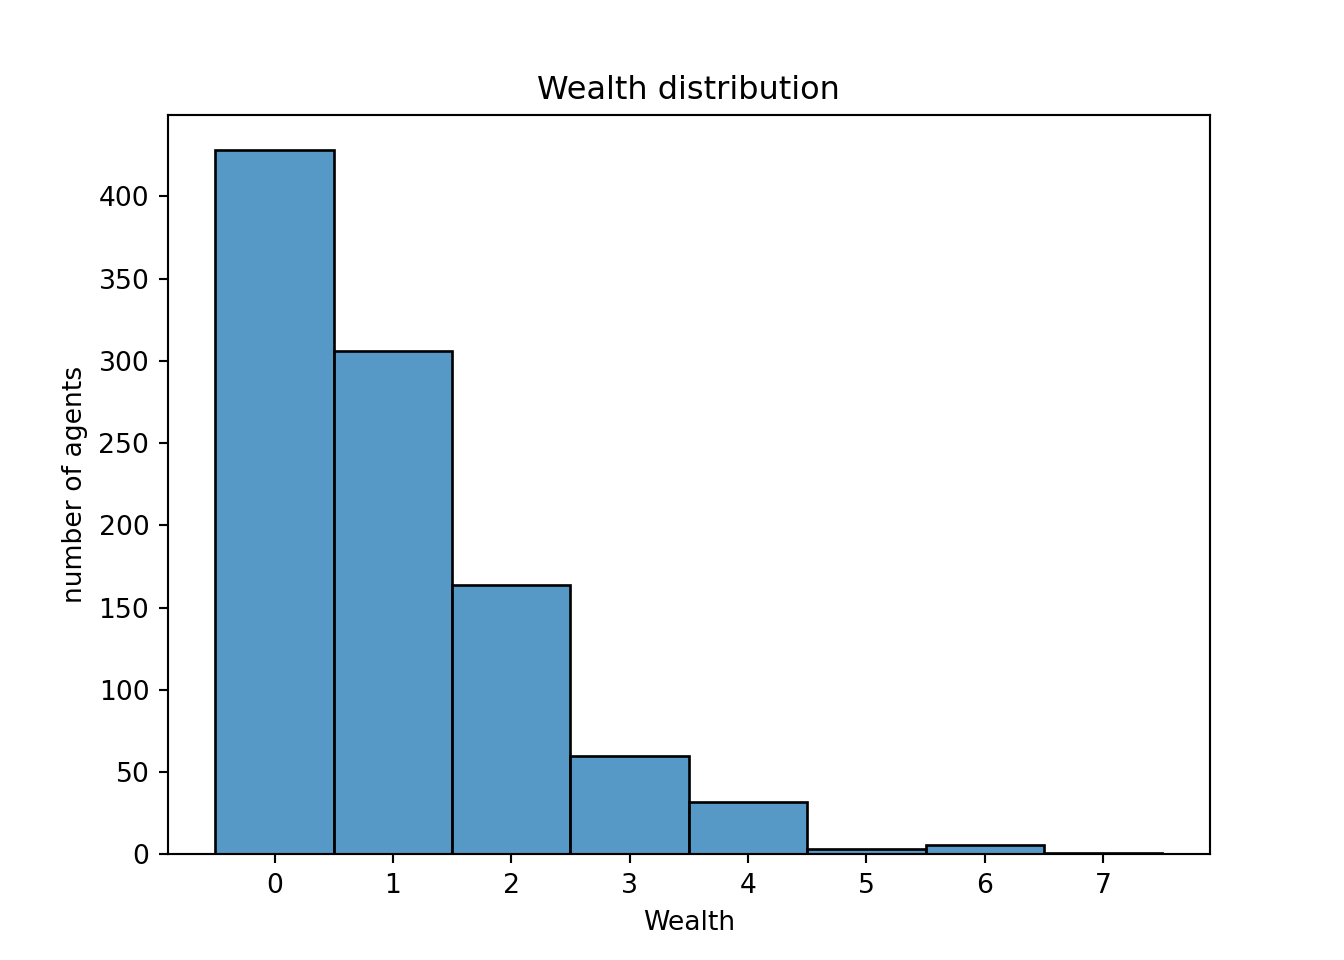
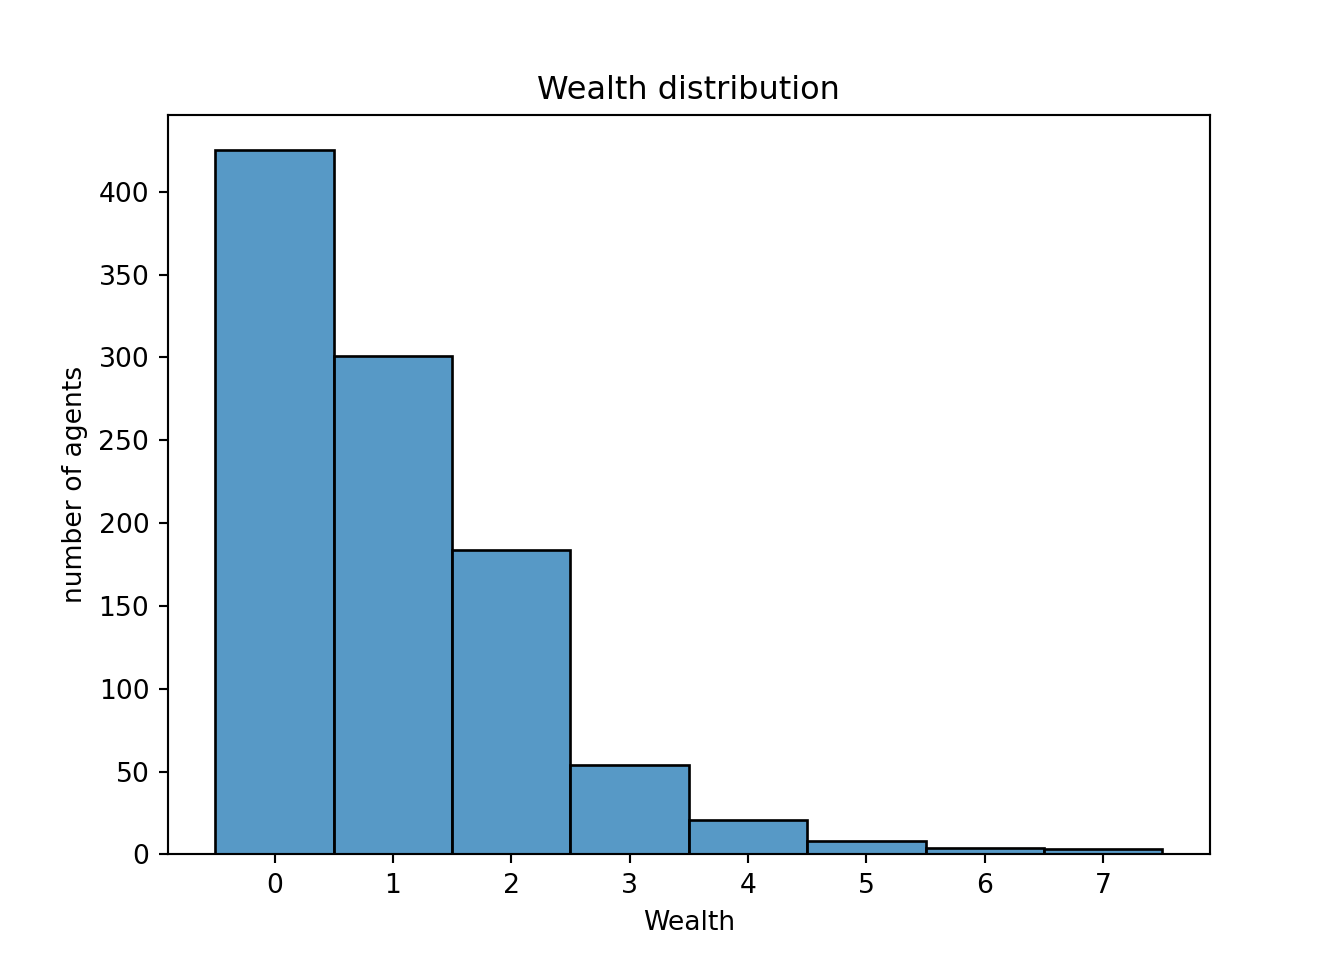
update

diff --git a/docs/index.html b/docs/index.html
@@ -154,7 +154,10 @@ pre > code.sourceCode > span > a:first-child::before { text-decoration: underlin
   <li><a href="#导入依赖项" id="toc-导入依赖项" class="nav-link" data-scroll-target="#导入依赖项"><span class="header-section-number">3.1</span> 导入依赖项</a></li>
   <li><a href="#基础模型" id="toc-基础模型" class="nav-link" data-scroll-target="#基础模型"><span class="header-section-number">3.2</span> 基础模型</a></li>
   <li><a href="#空间概念" id="toc-空间概念" class="nav-link" data-scroll-target="#空间概念"><span class="header-section-number">3.3</span> 空间概念</a></li>
-  <li><a href="#代码实现" id="toc-代码实现" class="nav-link" data-scroll-target="#代码实现"><span class="header-section-number">3.4</span> 代码实现</a></li>
+  <li><a href="#代码实现" id="toc-代码实现" class="nav-link" data-scroll-target="#代码实现"><span class="header-section-number">3.4</span> 代码实现</a>
+  <ul>
+  <li><a href="#创建-cellagent" id="toc-创建-cellagent" class="nav-link" data-scroll-target="#创建-cellagent"><span class="header-section-number">3.4.1</span> 创建 CellAgent</a></li>
+  </ul></li>
   </ul></li>
   </ul>
 </nav>
@@ -319,16 +322,16 @@ pre > code.sourceCode > span > a:first-child::before { text-decoration: underlin
 <span id="cb7-5"><a href="#cb7-5" aria-hidden="true" tabindex="-1"></a><span class="co">#运行模型的 step 方法，激活所有 Agent</span></span>
 <span id="cb7-6"><a href="#cb7-6" aria-hidden="true" tabindex="-1"></a>starter_model.step()</span></code><button title="Copy to Clipboard" class="code-copy-button"><i class="bi"></i></button></pre></div>
 <div class="cell-output cell-output-stdout">
-<pre><code>Hi, I am an agent, you can call me 10.
-Hi, I am an agent, you can call me 4.
-Hi, I am an agent, you can call me 9.
-Hi, I am an agent, you can call me 5.
-Hi, I am an agent, you can call me 2.
-Hi, I am an agent, you can call me 8.
-Hi, I am an agent, you can call me 3.
-Hi, I am an agent, you can call me 7.
+<pre><code>Hi, I am an agent, you can call me 8.
 Hi, I am an agent, you can call me 1.
-Hi, I am an agent, you can call me 6.</code></pre>
+Hi, I am an agent, you can call me 10.
+Hi, I am an agent, you can call me 2.
+Hi, I am an agent, you can call me 4.
+Hi, I am an agent, you can call me 6.
+Hi, I am an agent, you can call me 3.
+Hi, I am an agent, you can call me 9.
+Hi, I am an agent, you can call me 7.
+Hi, I am an agent, you can call me 5.</code></pre>
 </div>
 </div>
 <p>如果在创建对象时传入了 <code>seed</code> 参数，则每次运行模型时 <code>Agent</code> 的顺序会保持一致。</p>
@@ -383,16 +386,16 @@ Hi, I am an agent, you can call me 8.</code></pre>
 <span id="cb11-28"><a href="#cb11-28" aria-hidden="true" tabindex="-1"></a>starter_model <span class="op">=</span> MoneyModel(<span class="dv">10</span>)</span>
 <span id="cb11-29"><a href="#cb11-29" aria-hidden="true" tabindex="-1"></a>starter_model.step()</span></code><button title="Copy to Clipboard" class="code-copy-button"><i class="bi"></i></button></pre></div>
 <div class="cell-output cell-output-stdout">
-<pre><code>Hi, I am an agent 5,and I have 1 dollars.
-Hi, I am an agent 8,and I have 1 dollars.
-Hi, I am an agent 3,and I have 1 dollars.
-Hi, I am an agent 6,and I have 1 dollars.
-Hi, I am an agent 9,and I have 1 dollars.
-Hi, I am an agent 4,and I have 1 dollars.
+<pre><code>Hi, I am an agent 7,and I have 1 dollars.
+Hi, I am an agent 2,and I have 1 dollars.
 Hi, I am an agent 10,and I have 1 dollars.
 Hi, I am an agent 1,and I have 1 dollars.
-Hi, I am an agent 2,and I have 1 dollars.
-Hi, I am an agent 7,and I have 1 dollars.</code></pre>
+Hi, I am an agent 4,and I have 1 dollars.
+Hi, I am an agent 5,and I have 1 dollars.
+Hi, I am an agent 8,and I have 1 dollars.
+Hi, I am an agent 6,and I have 1 dollars.
+Hi, I am an agent 9,and I have 1 dollars.
+Hi, I am an agent 3,and I have 1 dollars.</code></pre>
 </div>
 </div>
 </section>
@@ -539,11 +542,11 @@ Hi, I am an agent 7,and I have 1 dollars.</code></pre>
 <pre><code># A tibble: 6 × 1
   wealth
    &lt;int&gt;
-1      1
-2      3
-3      0
+1      0
+2      1
+3      2
 4      0
-5      0
+5      2
 6      1</code></pre>
 </div>
 <div class="sourceCode cell-code" id="cb22"><pre class="sourceCode r code-with-copy"><code class="sourceCode r"><span id="cb22-1"><a href="#cb22-1" aria-hidden="true" tabindex="-1"></a><span class="fu">ggplot</span>(all_wealth_r, <span class="fu">aes</span>(<span class="at">x =</span> wealth)) <span class="sc">+</span></span>
@@ -672,13 +675,67 @@ Hi, I am an agent 7,and I have 1 dollars.</code></pre>
 </section>
 <section id="代码实现" class="level2" data-number="3.4">
 <h2 data-number="3.4" class="anchored" data-anchor-id="代码实现"><span class="header-section-number">3.4</span> 代码实现</h2>
+<section id="创建-cellagent" class="level3" data-number="3.4.1">
+<h3 data-number="3.4.1" class="anchored" data-anchor-id="创建-cellagent"><span class="header-section-number">3.4.1</span> 创建 CellAgent</h3>
 <p>为了使模型具有离散空间功能，我们将 <code>MoneyAgent</code> 实例化为 <code>CellAgent</code>。</p>
-<p><code>CellAgent</code> 是 <code>Agent</code> 的一个子类，专门用于在</p>
+<p><code>CellAgent</code> 是 <code>Agent</code> 的一个子类，专门用于在离散空间 <code>discrete space</code> 模块中交互和移动。</p>
 <div class="cell language-marker" data-display-language="true">
-
+<div class="sourceCode cell-code" id="cb27"><pre class="sourceCode python code-with-copy"><code class="sourceCode python"><span id="cb27-1"><a href="#cb27-1" aria-hidden="true" tabindex="-1"></a><span class="co">#下面这行import相当于只从 mesa.discrete_space 中导入</span></span>
+<span id="cb27-2"><a href="#cb27-2" aria-hidden="true" tabindex="-1"></a><span class="co">#CellAgent 和 OrthogonalMooreGrid 这两个类，如果此处导入</span></span>
+<span id="cb27-3"><a href="#cb27-3" aria-hidden="true" tabindex="-1"></a><span class="co">#那么下面使用时不需要写明 mesa.discrete_space.CellAgent</span></span>
+<span id="cb27-4"><a href="#cb27-4" aria-hidden="true" tabindex="-1"></a><span class="co">#而可以直接使用CellAgent，类似R中 dplyr::select 和 library(dplyr)</span></span>
+<span id="cb27-5"><a href="#cb27-5" aria-hidden="true" tabindex="-1"></a><span class="co">#from mesa.discrete_space import CellAgent, OrthogonalMooreGrid</span></span>
+<span id="cb27-6"><a href="#cb27-6" aria-hidden="true" tabindex="-1"></a></span>
+<span id="cb27-7"><a href="#cb27-7" aria-hidden="true" tabindex="-1"></a><span class="co">#使用父类 CellAgent 来创建一个新的 Agent 类 MoneyAgent</span></span>
+<span id="cb27-8"><a href="#cb27-8" aria-hidden="true" tabindex="-1"></a><span class="kw">class</span> MoneyAgent(mesa.discrete_space.CellAgent):</span>
+<span id="cb27-9"><a href="#cb27-9" aria-hidden="true" tabindex="-1"></a>    <span class="co">"""An agent with fixed initial wealth."""</span></span>
+<span id="cb27-10"><a href="#cb27-10" aria-hidden="true" tabindex="-1"></a></span>
+<span id="cb27-11"><a href="#cb27-11" aria-hidden="true" tabindex="-1"></a>    <span class="kw">def</span> <span class="fu">__init__</span>(<span class="va">self</span>, model, cell):</span>
+<span id="cb27-12"><a href="#cb27-12" aria-hidden="true" tabindex="-1"></a>        <span class="bu">super</span>().<span class="fu">__init__</span>(model)</span>
+<span id="cb27-13"><a href="#cb27-13" aria-hidden="true" tabindex="-1"></a>        <span class="va">self</span>.cell <span class="op">=</span> cell  <span class="co"># 将 Agent初始化在位置 (x,y)</span></span>
+<span id="cb27-14"><a href="#cb27-14" aria-hidden="true" tabindex="-1"></a>        <span class="va">self</span>.wealth <span class="op">=</span> <span class="dv">1</span></span>
+<span id="cb27-15"><a href="#cb27-15" aria-hidden="true" tabindex="-1"></a></span>
+<span id="cb27-16"><a href="#cb27-16" aria-hidden="true" tabindex="-1"></a>    <span class="co"># Move Function</span></span>
+<span id="cb27-17"><a href="#cb27-17" aria-hidden="true" tabindex="-1"></a>    <span class="kw">def</span> move(<span class="va">self</span>):</span>
+<span id="cb27-18"><a href="#cb27-18" aria-hidden="true" tabindex="-1"></a>        <span class="va">self</span>.cell <span class="op">=</span> <span class="va">self</span>.cell.neighborhood.select_random_cell()</span>
+<span id="cb27-19"><a href="#cb27-19" aria-hidden="true" tabindex="-1"></a></span>
+<span id="cb27-20"><a href="#cb27-20" aria-hidden="true" tabindex="-1"></a>    <span class="kw">def</span> give_money(<span class="va">self</span>):</span>
+<span id="cb27-21"><a href="#cb27-21" aria-hidden="true" tabindex="-1"></a>        cellmates <span class="op">=</span> [</span>
+<span id="cb27-22"><a href="#cb27-22" aria-hidden="true" tabindex="-1"></a>            a <span class="cf">for</span> a <span class="kw">in</span> <span class="va">self</span>.cell.agents <span class="cf">if</span> a <span class="kw">is</span> <span class="kw">not</span> <span class="va">self</span></span>
+<span id="cb27-23"><a href="#cb27-23" aria-hidden="true" tabindex="-1"></a>        ]  <span class="co"># Get all agents in cell</span></span>
+<span id="cb27-24"><a href="#cb27-24" aria-hidden="true" tabindex="-1"></a></span>
+<span id="cb27-25"><a href="#cb27-25" aria-hidden="true" tabindex="-1"></a>        <span class="cf">if</span> <span class="va">self</span>.wealth <span class="op">&gt;</span> <span class="dv">0</span> <span class="kw">and</span> cellmates:</span>
+<span id="cb27-26"><a href="#cb27-26" aria-hidden="true" tabindex="-1"></a>            other_agent <span class="op">=</span> <span class="va">self</span>.random.choice(cellmates)</span>
+<span id="cb27-27"><a href="#cb27-27" aria-hidden="true" tabindex="-1"></a>            other_agent.wealth <span class="op">+=</span> <span class="dv">1</span></span>
+<span id="cb27-28"><a href="#cb27-28" aria-hidden="true" tabindex="-1"></a>            <span class="va">self</span>.wealth <span class="op">-=</span> <span class="dv">1</span></span></code><button title="Copy to Clipboard" class="code-copy-button"><i class="bi"></i></button></pre></div>
+</div>
+<div class="cell language-marker" data-display-language="true">
+<div class="sourceCode cell-code" id="cb28"><pre class="sourceCode python code-with-copy"><code class="sourceCode python"><span id="cb28-1"><a href="#cb28-1" aria-hidden="true" tabindex="-1"></a><span class="kw">class</span> MoneyModel(mesa.Model):</span>
+<span id="cb28-2"><a href="#cb28-2" aria-hidden="true" tabindex="-1"></a>    <span class="co">"""A model with some number of agents."""</span></span>
+<span id="cb28-3"><a href="#cb28-3" aria-hidden="true" tabindex="-1"></a></span>
+<span id="cb28-4"><a href="#cb28-4" aria-hidden="true" tabindex="-1"></a>    <span class="kw">def</span> <span class="fu">__init__</span>(<span class="va">self</span>, n, width, height, seed<span class="op">=</span><span class="va">None</span>):</span>
+<span id="cb28-5"><a href="#cb28-5" aria-hidden="true" tabindex="-1"></a>        <span class="bu">super</span>().<span class="fu">__init__</span>(seed<span class="op">=</span>seed)</span>
+<span id="cb28-6"><a href="#cb28-6" aria-hidden="true" tabindex="-1"></a>        <span class="va">self</span>.num_agents <span class="op">=</span> n</span>
+<span id="cb28-7"><a href="#cb28-7" aria-hidden="true" tabindex="-1"></a>        <span class="co"># Instantiate an instance of Moore neighborhood space</span></span>
+<span id="cb28-8"><a href="#cb28-8" aria-hidden="true" tabindex="-1"></a>        <span class="va">self</span>.grid <span class="op">=</span> mesa.discrete_space.OrthogonalMooreGrid(</span>
+<span id="cb28-9"><a href="#cb28-9" aria-hidden="true" tabindex="-1"></a>            (width, height), torus<span class="op">=</span><span class="va">True</span>, capacity<span class="op">=</span><span class="dv">10</span>, random<span class="op">=</span><span class="va">self</span>.random</span>
+<span id="cb28-10"><a href="#cb28-10" aria-hidden="true" tabindex="-1"></a>        )</span>
+<span id="cb28-11"><a href="#cb28-11" aria-hidden="true" tabindex="-1"></a></span>
+<span id="cb28-12"><a href="#cb28-12" aria-hidden="true" tabindex="-1"></a>        <span class="co"># Create agents</span></span>
+<span id="cb28-13"><a href="#cb28-13" aria-hidden="true" tabindex="-1"></a>        agents <span class="op">=</span> MoneyAgent.create_agents(</span>
+<span id="cb28-14"><a href="#cb28-14" aria-hidden="true" tabindex="-1"></a>            <span class="va">self</span>,</span>
+<span id="cb28-15"><a href="#cb28-15" aria-hidden="true" tabindex="-1"></a>            <span class="va">self</span>.num_agents,</span>
+<span id="cb28-16"><a href="#cb28-16" aria-hidden="true" tabindex="-1"></a>            <span class="co"># Randomly select agents cell</span></span>
+<span id="cb28-17"><a href="#cb28-17" aria-hidden="true" tabindex="-1"></a>            <span class="va">self</span>.random.choices(<span class="va">self</span>.grid.all_cells.cells, k<span class="op">=</span><span class="va">self</span>.num_agents),</span>
+<span id="cb28-18"><a href="#cb28-18" aria-hidden="true" tabindex="-1"></a>        )</span>
+<span id="cb28-19"><a href="#cb28-19" aria-hidden="true" tabindex="-1"></a></span>
+<span id="cb28-20"><a href="#cb28-20" aria-hidden="true" tabindex="-1"></a>    <span class="kw">def</span> step(<span class="va">self</span>):</span>
+<span id="cb28-21"><a href="#cb28-21" aria-hidden="true" tabindex="-1"></a>        <span class="va">self</span>.agents.shuffle_do(<span class="st">"move"</span>)</span>
+<span id="cb28-22"><a href="#cb28-22" aria-hidden="true" tabindex="-1"></a>        <span class="va">self</span>.agents.do(<span class="st">"give_money"</span>)</span></code><button title="Copy to Clipboard" class="code-copy-button"><i class="bi"></i></button></pre></div>
 </div>
 
 
+</section>
 </section>
 </section>
 
